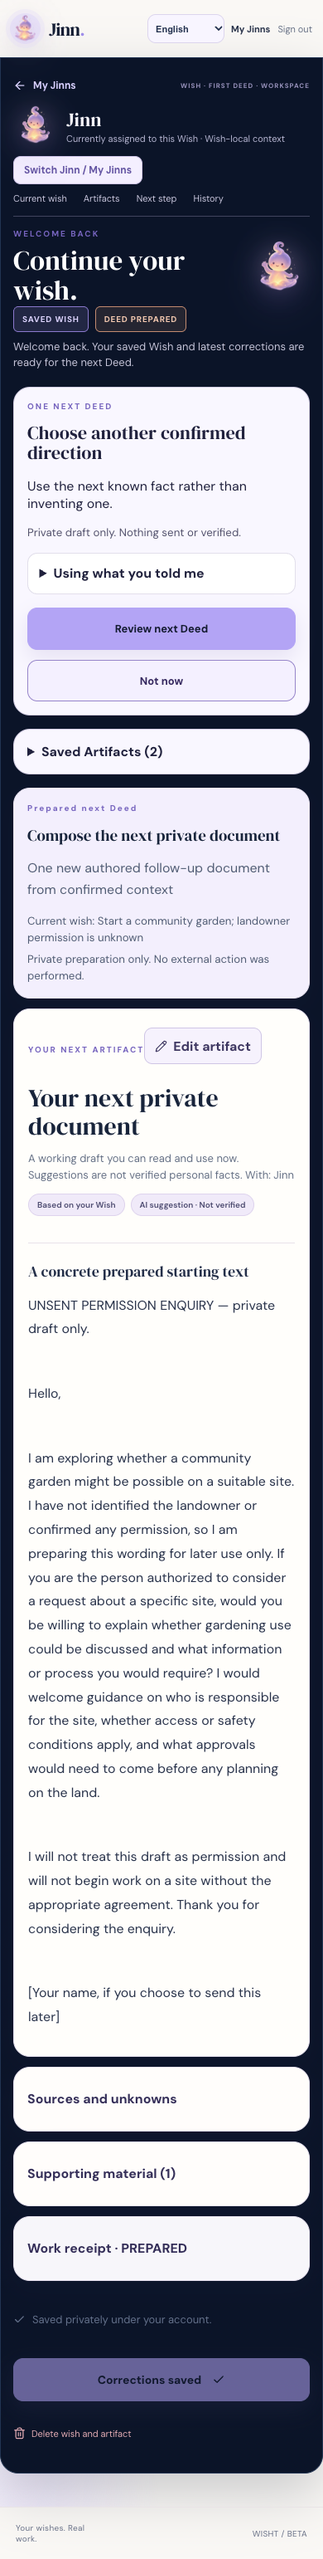
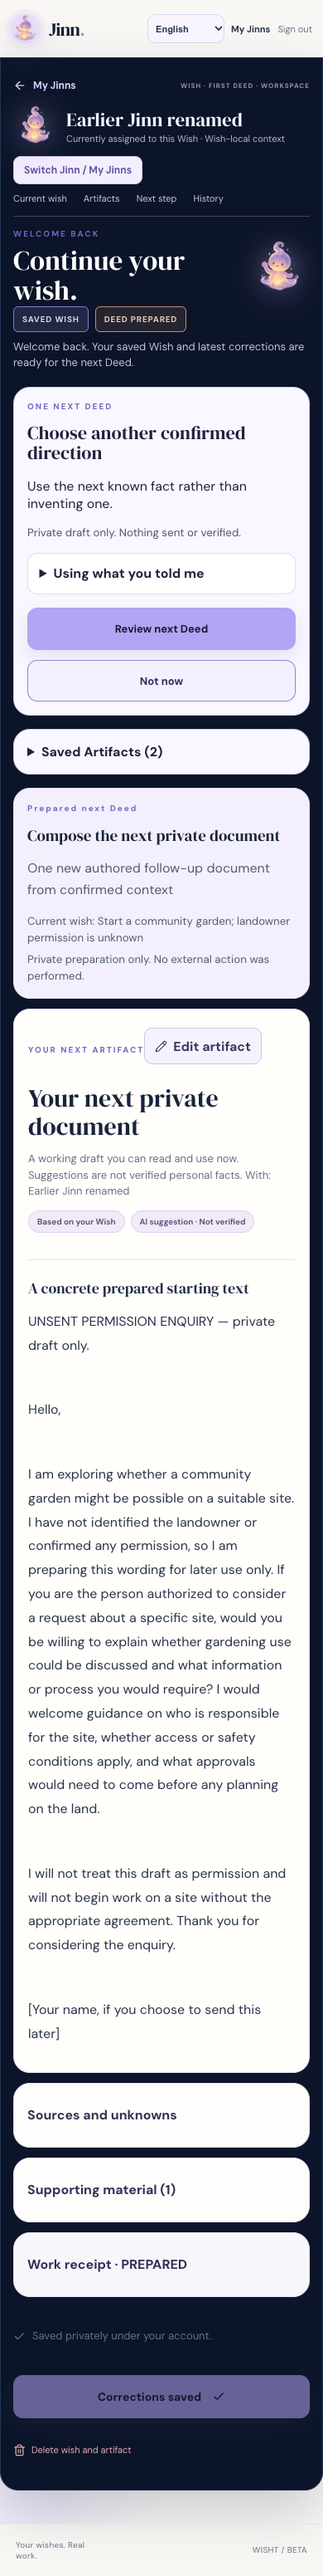
Fix F04 historical Jinn attribution and action-bound retries

diff --git a/api/src/continuation.ts b/api/src/continuation.ts
@@ -5,7 +5,8 @@ import { validateExperiencePlan } from './experiencePlan.js';
 import type { Locale } from './locale.js';
 
 const uuid=/^[0-9a-f]{8}-[0-9a-f]{4}-[1-8][0-9a-f]{3}-[89ab][0-9a-f]{3}-[0-9a-f]{12}$/i;
-type Snapshot={sourceId:string;sourceVersion:number;contextRevision:number;actorId:string;latestDeedId:string};
+type Snapshot={sourceId:string;sourceVersion:number;contextRevision:number;actorId:string;
+  actorName:string;actorVersion:string;latestDeedId:string};
 type TrustedContext={sourceNote:string;sourceNoteConfirmed:boolean;confirmedFacts:string[];unknowns:string[]};
 export class ContinuationError extends Error {
   constructor(message:string,readonly status:number,readonly code:string){super(message);}
@@ -21,6 +22,11 @@ const secret=(env:NodeJS.ProcessEnv)=>{
 function signature(value:unknown,env:NodeJS.ProcessEnv):string{
   return createHmac('sha256',secret(env)).update('wisht-continuation-v1\n')
     .update(JSON.stringify(value)).digest('base64url');
+}
+export function approvedActionFingerprint(userId:string,wishId:string,plan:unknown,
+  version:Snapshot,editRequest:string,env:NodeJS.ProcessEnv):string{
+  return createHmac('sha256',secret(env)).update('wisht-approved-action-v1\n')
+    .update(JSON.stringify({userId,wishId,plan,snapshot:version,editRequest})).digest('hex');
 }
 function verify(value:unknown,proof:unknown,env:NodeJS.ProcessEnv):void{
   if(typeof proof!=='string'||!/^[A-Za-z0-9_-]{43}$/.test(proof))
@@ -54,7 +60,7 @@ async function snapshot(token:string,wishId:string,sourceId:string|undefined,env
     .select('id,original_intent,primary_jinn_id,wish_context')
     .eq('id',wishId).eq('user_id',user.id).maybeSingle();
   if(wishError||!wish)fail('Saved Wish unavailable.',404,'wish_not_found');
-  const {data:jinn}=await admin.from('jinns').select('id,name,settings')
+  const {data:jinn}=await admin.from('jinns').select('id,name,settings,updated_at')
     .eq('id',wish!.primary_jinn_id).eq('user_id',user.id).maybeSingle();
   if(!jinn)fail('Assigned Jinn unavailable.',409,'jinn_changed');
   let sourceQuery=admin.from('artifacts').select('id,content,version,origin_deed_id')
@@ -74,7 +80,8 @@ async function snapshot(token:string,wishId:string,sourceId:string|undefined,env
   };
   const revision=Number.isInteger(raw.revision)?Number(raw.revision):0;
   const version:Snapshot={sourceId:source!.id,sourceVersion:source!.version,
-    contextRevision:revision,actorId:jinn!.id,latestDeedId:latest!.id};
+    contextRevision:revision,actorId:jinn!.id,actorName:jinn!.name,
+    actorVersion:jinn!.updated_at,latestDeedId:latest!.id};
   const content=validateArtifact(source!.content,typeof source!.content?.sourceNote==='string'?source!.content.sourceNote:'');
   const priorDraft={title:content.title,excerpt:content.sections.filter(s=>s.type==='document')
     .map(s=>s.body).join('\n').slice(0,1000),nextDeedTitle:content.nextDeed.title};
@@ -82,13 +89,21 @@ async function snapshot(token:string,wishId:string,sourceId:string|undefined,env
 }
 function sameVersion(a:Snapshot,b:Snapshot){
   return a.sourceId===b.sourceId&&a.sourceVersion===b.sourceVersion&&
-    a.contextRevision===b.contextRevision&&a.actorId===b.actorId&&a.latestDeedId===b.latestDeedId;
+    a.contextRevision===b.contextRevision&&a.actorId===b.actorId&&
+    a.actorName===b.actorName&&a.actorVersion===b.actorVersion&&a.latestDeedId===b.latestDeedId;
 }
-async function resolve(admin:ReturnType<typeof clients>['admin'],userId:string,key:string){
-  const {data:deed,error}=await admin.from('deeds').select('id,wish_id,receipt')
+export function assertReplayBinding(existing:{wish_id:string;request_fingerprint:string|null},
+  wishId:string,fingerprint:string):void{
+  if(existing.wish_id!==wishId||existing.request_fingerprint!==fingerprint)
+    fail('Request key belongs to another approved action.',409,'request_conflict');
+}
+async function resolve(admin:ReturnType<typeof clients>['admin'],userId:string,key:string,
+  wishId:string,fingerprint:string){
+  const {data:deed,error}=await admin.from('deeds').select('id,wish_id,receipt,request_fingerprint')
     .eq('user_id',userId).eq('request_key',key).eq('verified_followup',true).maybeSingle();
   if(error)fail('Could not check the previous save.',503,'resolve_failed');
   if(!deed)return null;
+  assertReplayBinding(deed,wishId,fingerprint);
   const {data:artifact, error:artifactError}=await admin.from('artifacts').select('id')
     .eq('origin_deed_id',deed.id).eq('wish_id',deed.wish_id).eq('user_id',userId).single();
   if(artifactError||!artifact)fail('Saved Artifact unavailable.',503,'resolve_failed');
@@ -100,30 +115,20 @@ export async function serveContinuation(body:Record<string,unknown>,token:string
   const mode=body.mode;
   const fields=mode==='propose_continuation'?['mode','locale','wishId','sourceId','editRequest']:
     mode==='execute_continuation'?['mode','locale','wishId','sourceId','requestKey','proposal','editRequest']:
-    mode==='resolve_continuation'?['mode','locale','wishId','requestKey']:[];
+    mode==='resolve_continuation'?['mode','locale','wishId','requestKey','proposal','editRequest']:[];
   if(!fields.length||Object.keys(body).some(key=>!fields.includes(key)))
     fail('Unsupported continuation field.',400,'invalid_request');
-  if(mode==='resolve_continuation'){
-    if(typeof body.requestKey!=='string'||!uuid.test(body.requestKey)||
-      typeof body.wishId!=='string'||!uuid.test(body.wishId))
-      fail('Invalid request key.',400,'invalid_request');
-    const {user,admin}=await identity(token,env);
-    const existing=await resolve(admin,user.id,body.requestKey as string);
-    if(!existing)fail('No completed Deed for this request.',404,'not_saved');
-    if(existing!.wishId!==body.wishId)fail('Request key belongs to another Wish.',409,'request_conflict');
-    return existing;
-  }
   if(typeof body.wishId!=='string'||!uuid.test(body.wishId)||
      (body.sourceId!==undefined&&(typeof body.sourceId!=='string'||!uuid.test(body.sourceId))))
     fail('Invalid Wish or Artifact.',400,'invalid_request');
   if(body.editRequest!==undefined&&(typeof body.editRequest!=='string'||body.editRequest.length>280))
     fail('Edit request is too long.',400,'invalid_request');
-  if(mode==='execute_continuation' && (typeof body.requestKey!=='string'||!uuid.test(body.requestKey)))
+  if(mode!=='propose_continuation' && (typeof body.requestKey!=='string'||!uuid.test(body.requestKey)))
     fail('Invalid request key.',400,'invalid_request');
-  const state=await snapshot(token,body.wishId as string,body.sourceId as string|undefined,env);
-  if(state.context.sourceNote&&!state.context.sourceNoteConfirmed)
-    fail('Confirm the source note before continuing.',409,'source_confirmation_required');
   if(mode==='propose_continuation'){
+    const state=await snapshot(token,body.wishId as string,body.sourceId as string|undefined,env);
+    if(state.context.sourceNote&&!state.context.sourceNoteConfirmed)
+      fail('Confirm the source note before continuing.',409,'source_confirmation_required');
     const editRequest=typeof body.editRequest==='string'?body.editRequest.trim():'';
     const evidence={confirmedUserContext:state.context,priorAiDraft:state.priorDraft,
       requestedEmphasis:editRequest,capabilities:['private_draft','local_edit','account_save']};
@@ -134,24 +139,36 @@ export async function serveContinuation(body:Record<string,unknown>,token:string
       expires:Date.now()+30*60*1000};
     return {plan,snapshot:state.version,editRequest,expires:value.expires,proof:signature(value,env)};
   }
-  if(mode!=='execute_continuation')fail('Invalid request.',400,'invalid_request');
+  if(mode!=='execute_continuation'&&mode!=='resolve_continuation')fail('Invalid request.',400,'invalid_request');
   const key=body.requestKey as string;
-  const existing=await resolve(state.admin,state.user.id,key);
-  if(existing){
-    if(existing.wishId!==state.wish.id)fail('Request key belongs to another Wish.',409,'request_conflict');
-    return existing;
-  }
   const raw=body.proposal as Record<string,unknown>|undefined;
   if(!raw||typeof raw!=='object'||!raw.snapshot||typeof raw.editRequest!=='string'||
      raw.editRequest!==((typeof body.editRequest==='string'?body.editRequest.trim():''))||
-     typeof raw.expires!=='number'||
-     raw.expires<Date.now()||raw.expires>Date.now()+30*60*1000+60000)
+     typeof raw.expires!=='number'||!Number.isFinite(raw.expires)||
+     raw.expires>Date.now()+30*60*1000+60000)
     fail('Review this Deed again.',409,'proposal_stale');
   const plan=validateExperiencePlan(raw!.plan,locale);
   const version=raw!.snapshot as Snapshot;
+  const expires=raw!.expires as number;
+  if(!version||typeof version!=='object'||!uuid.test(version.sourceId)||
+    !uuid.test(version.actorId)||!uuid.test(version.latestDeedId)||
+    typeof version.actorName!=='string'||!version.actorName||
+    typeof version.actorVersion!=='string'||Number.isNaN(Date.parse(version.actorVersion))||
+    !Number.isInteger(version.sourceVersion)||!Number.isInteger(version.contextRevision)||
+    (body.sourceId!==undefined&&body.sourceId!==version.sourceId))
+    fail('Review this Deed again.',409,'proposal_stale');
+  const {user,admin}=await identity(token,env);
+  verify({userId:user.id,wishId:body.wishId,plan,snapshot:version,
+    editRequest:raw!.editRequest,expires},raw!.proof,env);
+  const fingerprint=approvedActionFingerprint(user.id,body.wishId as string,plan,version,raw!.editRequest as string,env);
+  const existing=await resolve(admin,user.id,key,body.wishId as string,fingerprint);
+  if(existing)return existing;
+  if(mode==='resolve_continuation')fail('No completed Deed for this request.',404,'not_saved');
+  if(expires<Date.now())fail('Review this Deed again.',409,'proposal_stale');
+  const state=await snapshot(token,body.wishId as string,version.sourceId,env);
+  if(state.context.sourceNote&&!state.context.sourceNoteConfirmed)
+    fail('Confirm the source note before continuing.',409,'source_confirmation_required');
   if(!sameVersion(version,state.version))fail('Wish context or Jinn changed. Review again.',409,'proposal_stale');
-  verify({userId:state.user.id,wishId:state.wish.id,plan,snapshot:version,
-    editRequest:raw!.editRequest,expires:raw!.expires},raw!.proof,env);
   const started=Date.now();
   const prepared=await prepareDeed(state.wish.original_intent,state.context.sourceNote,null,
     undefined,undefined,locale,plan,{},
@@ -164,15 +181,17 @@ export async function serveContinuation(body:Record<string,unknown>,token:string
     p_user_id:state.user.id,p_wish_id:state.wish.id,
     p_source_artifact_id:version.sourceId,p_source_version:version.sourceVersion,
     p_context_revision:version.contextRevision,p_expected_actor_id:version.actorId,
+    p_expected_actor_name:version.actorName,p_expected_actor_version:version.actorVersion,
     p_latest_deed_id:version.latestDeedId,
-    p_request_key:key,p_artifact:artifact,p_draft_source:prepared.receipt.draftSource,
+    p_request_key:key,p_request_fingerprint:fingerprint,
+    p_artifact:artifact,p_draft_source:prepared.receipt.draftSource,
   });
   if(error){
     if(error.code==='40001')fail('Wish context or Artifact changed. Review again.',409,'proposal_stale');
     if(error.code==='23505'){
-      const replay=await resolve(state.admin,state.user.id,key);
-      if(replay?.wishId===state.wish.id)return replay;
-      fail('Request key belongs to another Wish.',409,'request_conflict');
+      const replay=await resolve(state.admin,state.user.id,key,state.wish.id,fingerprint);
+      if(replay)return replay;
+      fail('Request key belongs to another approved action.',409,'request_conflict');
     }
     console.error('[Wisht] api continuation.save.failed',{code:error.code||'db_error'});
     fail('Could not confirm whether the Deed was saved. Retry with the same request.',503,'save_ambiguous');

diff --git a/api/test/continuation.test.ts b/api/test/continuation.test.ts
@@ -2,6 +2,7 @@ import {describe,it} from 'node:test';
 import assert from 'node:assert/strict';
 import {planFirstValue,prepareDeed,serveFirstDeed} from '../src/firstDeed.ts';
 import {validateExperiencePlan} from '../src/experiencePlan.ts';
+import {approvedActionFingerprint,assertReplayBinding,ContinuationError} from '../src/continuation.ts';
 
 const plan=validateExperiencePlan({version:1,locale:'en',intent:'Continue one saved Wish',
   firstOutcome:'A fully written new private chapter opening',
@@ -14,6 +15,27 @@ const chapter={title:'Chapter opening',sections:[{type:'document',title:'Opening
     prompt:'Choose a detail you know'},boundary:'Private draft. Nothing sent or verified.'};
 
 describe('F04 trusted continuation boundaries',()=>{
+  it('binds a request key to approved action and source, context and Jinn versions',()=>{
+    const env={SUPABASE_SERVICE_ROLE_KEY:'x'.repeat(40)};
+    const version={sourceId:'00000000-0000-4000-8000-000000000001',sourceVersion:1,
+      contextRevision:2,actorId:'00000000-0000-4000-8000-000000000002',
+      actorName:'Original Jinn',actorVersion:'2026-11-20T12:00:00Z',
+      latestDeedId:'00000000-0000-4000-8000-000000000003'};
+    const fingerprint=approvedActionFingerprint('owner','wish',plan,version,'',env);
+    assert.match(fingerprint,/^[0-9a-f]{64}$/);
+    assert.equal(fingerprint,approvedActionFingerprint('owner','wish',plan,version,'',env));
+    assert.notEqual(fingerprint,approvedActionFingerprint('owner','wish',plan,version,'different edit',env));
+    for(const change of [{sourceVersion:2},{contextRevision:3},
+      {actorId:'00000000-0000-4000-8000-000000000004'},
+      {actorName:'Renamed Jinn'},{actorVersion:'2026-11-20T12:01:00Z'},
+      {latestDeedId:'00000000-0000-4000-8000-000000000005'}])
+      assert.notEqual(fingerprint,approvedActionFingerprint('owner','wish',plan,{...version,...change},'',env));
+    assert.doesNotThrow(()=>assertReplayBinding({wish_id:'wish',request_fingerprint:fingerprint},'wish',fingerprint));
+    assert.throws(()=>assertReplayBinding({wish_id:'wish',request_fingerprint:fingerprint},'wish','f'.repeat(64)),
+      (error:unknown)=>error instanceof ContinuationError&&error.status===409&&error.code==='request_conflict');
+    assert.throws(()=>assertReplayBinding({wish_id:'wish',request_fingerprint:null},'wish',fingerprint),
+      (error:unknown)=>error instanceof ContinuationError&&error.status===409);
+  });
   it('plans from confirmed context and labels earlier AI work as a draft',async()=>{
     const calls:Array<{system:string;user:string}>=[];
     const evidence={confirmedUserContext:{sourceNote:'Sunday pancakes with Aunt',

diff --git a/web/src/firstWishStore.ts b/web/src/firstWishStore.ts
@@ -5,7 +5,7 @@ import { ensurePrimaryJinn } from './jinnStore';
 
 export type WishSummary = { id: string; aspiration: string; updated_at: string; state: string; jinn_id: string };
 export type SavedArtifact={id:string;artifact:Artifact;receipt:DeedReceipt;revision:number;
-  deedId:string;actorName:string;verified:boolean};
+  deedId:string;actorName:string|null;verified:boolean};
 export type WishContext={sourceNote:string;sourceNoteConfirmed:boolean;confirmedFacts:string[];unknowns:string[];revision:number};
 export type FirstWishRow = {
   id: string;
@@ -62,12 +62,11 @@ export function loadFirstWish(id: string): Promise<FirstWishRow> {
     const artifact = artifacts.data.at(-1);
     const current = deeds.data.find(deed => deed.id === artifact?.origin_deed_id) ?? deeds.data.at(-1);
     if (!artifact || !current) throw new Error('This saved wish has no prepared Deed.');
-    const fallbackActor=assigned.data.name;
     const savedArtifacts:SavedArtifact[]=artifacts.data.map(item=>{
       const deed=deeds.data.find(value=>value.id===item.origin_deed_id);
       if(!deed)throw new Error('An Artifact has no matching Deed receipt.');
       return {id:item.id,artifact:item.content as Artifact,receipt:deed.receipt as DeedReceipt,
-        revision:item.version,deedId:deed.id,actorName:deed.actor_jinn_name||fallbackActor,
+        revision:item.version,deedId:deed.id,actorName:deed.actor_jinn_name||null,
         verified:deed.verified_followup===true||deed.verified_first===true};
     });
     const raw=wish.data.wish_context as Record<string,unknown>||{};

diff --git a/web/src/FirstWish.tsx b/web/src/FirstWish.tsx
@@ -253,7 +253,8 @@ export default function FirstWish({wish,savedId,preferredJinnId,preferredJinnOwn
       try{result=await endpoint({mode:'execute_continuation',wishId:row.id,
         sourceId:proposal.snapshot.sourceId,requestKey,proposal,editRequest},locale,bearer);}
       catch(error){
-        try{result=await endpoint({mode:'resolve_continuation',wishId:row.id,requestKey},locale,bearer);}
+        try{result=await endpoint({mode:'resolve_continuation',wishId:row.id,requestKey,
+          proposal,editRequest},locale,bearer);}
         catch{throw error;}
       }
       const saved=await loadFirstWish(row.id);
@@ -388,7 +389,7 @@ export default function FirstWish({wish,savedId,preferredJinnId,preferredJinnOwn
         <div className="continuation-artifact-list">{row.artifacts.map((item,index)=><button type="button" key={item.id}
           aria-current={item.id===row.artifact_id?'true':undefined} disabled={busy||dirty||contextDirty}
           onClick={()=>{selectSaved(row,item.id);setProposal(null);setReviewing(false);pendingRequestKey.current=null;}}>
-          {index+1}. {item.artifact.title} · {item.actorName}</button>)}</div>
+          {index+1}. {item.artifact.title} · {item.actorName??t('Unknown Jinn')}</button>)}</div>
       </details>}
       {artifact.experience?<FirstValueExperience key={row?.artifact_id||'unsaved'} artifact={artifact} receipt={receipt} saved={!!row}
         wish={currentWish} companionName={companionName} isFirst={!row||row.artifacts[0]?.id===row.artifact_id}

diff --git a/web/src/i18n.tsx b/web/src/i18n.tsx
@@ -11,6 +11,7 @@ const translations: Record<string,readonly [string,string,string]> = {
   'Using what you told me':['Использую то, что вы рассказали','D’après ce que vous m’avez dit','Según lo que me contaste'],
   'No confirmed details yet.':['Пока нет подтверждённых деталей.','Aucun détail confirmé pour le moment.','Todavía no hay detalles confirmados.'],
   'Unknowns':['Неизвестно','Inconnues','Datos pendientes'],
+  'Unknown Jinn':['Неизвестный джинн','Jinn inconnu','Jinn desconocido'],
   'None listed':['Ничего не указано','Aucune','Ninguno'],
   'Correct the source note in the Artifact editor. Draft text alone is not a confirmed fact.':['Исправьте исходную заметку в редакторе документа. Текст черновика сам по себе не подтверждённый факт.','Corrigez la note source dans l’éditeur du document. Le brouillon seul ne confirme aucun fait.','Corrige la nota original en el editor del documento. El borrador por sí solo no confirma ningún hecho.'],
   'Confirmed details, one per line':['Подтверждённые детали, по одной в строке','Détails confirmés, un par ligne','Detalles confirmados, uno por línea'],

diff --git a/web/src/FirstValueExperience.tsx b/web/src/FirstValueExperience.tsx
@@ -13,7 +13,7 @@ type Props={
   wish:string;
   companionName:string;
   isFirst?:boolean;
-  actorName?:string;
+  actorName?:string|null;
   verified?:boolean;
   showNext?:boolean;
   onChange:(artifact:Artifact)=>void;
@@ -55,7 +55,7 @@ export default function FirstValueExperience({artifact,receipt,saved,wish,compan
       <button type="button" className="first-value-edit" aria-pressed={editing}
         onClick={()=>setEditing(value=>!value)}><Pencil size={15}/> {editing?t('Finish editing'):t('Edit artifact')}</button>
       <h2>{artifact.title}</h2>
-      <p className="first-value-artifact-hint">{t('A working draft you can read and use now. Suggestions are not verified personal facts.')} {t('With')}: {actorName||companionName}</p>
+      <p className="first-value-artifact-hint">{t('A working draft you can read and use now. Suggestions are not verified personal facts.')} {t('With')}: {actorName===null?t('Unknown Jinn'):actorName??companionName}</p>
     <div className="first-value-provenance" aria-label={t('Sources and unknowns')}>
       <span>{t('Based on your Wish')}</span><span>{t('AI suggestion · Not verified')}</span>
     </div>

diff --git a/docs/evidence/f04-001/README.md b/docs/evidence/f04-001/README.md
@@ -4,19 +4,19 @@
 
 Branch `codex/f04-001-trusted-continuation` starts from `origin/main` at `57cac9f`. This slice adds a reviewed next Deed for a signed-in owner of a saved Wish. The browser can propose, edit the request, explicitly start, resolve an ambiguous save, and reopen each independent Artifact. It cannot set the actor, receipt, verification marker, recorded time, or saved status.
 
-The authenticated API reads only that owner's Wish, assigned Jinn, latest Deed, latest source Artifact, and Wish-local context. An HMAC binds the reviewed plan to those IDs and revisions and the edit request. The service-role RPC locks and rechecks them before one transaction inserts the Deed and Artifact. The request key makes a retry return the same pair. Source corrections and confirmed context updates advance revisions; a stale plan returns a conflict. Historical F03 receipts remain visibly unverified rather than receiving an inferred F04 marker.
+The authenticated API reads only that owner's Wish, assigned Jinn, latest Deed, latest source Artifact, and Wish-local context. An HMAC binds the reviewed plan to those IDs and revisions and the edit request. The service-role RPC locks and rechecks them before one transaction inserts the Deed and Artifact. A second server-derived fingerprint binds the request key to that approved action and source/context/Jinn snapshot. Identical retries return the same IDs; different signed actions with the same key return 409. New First Deeds snapshot the actual Jinn ID and name in the database insert trigger. Older Deeds without actor data display Unknown Jinn; they are not backfilled or attributed from the current assignment. Historical F03 receipts remain visibly unverified rather than receiving an inferred F04 marker.
 
 ## Verification
 
 | Gate | Result |
 | --- | --- |
-| Typecheck, 70 API tests, production build | Pass |
-| Disposable Docker Postgres: migration, owner RLS, forged marker denial, correction revisions, atomic save, replay, stale context/Jinn, two-account isolation, concurrent same key | Pass |
+| Typecheck, 71 API tests, production build | Pass |
+| Disposable Docker Postgres: migration, owner RLS, forged marker denial, first-actor snapshot and legacy unknown, correction revisions, atomic save, identical replay, conflicting fingerprint, stale context/Jinn, two-account isolation, concurrent same key | Pass |
 | Fresh isolated Supabase reset through all five migrations, security advisor warnings | Pass; no advisor findings |
 | Deterministic local Auth/API/browser on ports 55321, 55322, 55324, 3301, 5573 | Pass; [machine evidence](deterministic-browser-evidence.json) |
 | Approved real DeepSeek `deepseek-flash` run on the **synthetic** Sunday pancakes with Aunt case; isolated local Supabase only | Pass after grounding revision; [machine evidence](actual-provider-evaluation.json) |
 
-The deterministic browser covers Grandma-to-Aunt source correction, a 150–250-word chapter, two independently reopenable/editable Artifacts, same-key replay, forged fields, stale proposal, reauthentication, four locales, desktop/mobile, an unsent garden permission enquiry, and an unrelated hand-lettering Wish. Its model output is a loopback fixture, so it is wiring evidence rather than prose-quality evidence. Screenshots: [desktop history](desktop-history.png), [mobile next step](mobile-history.png), [mobile Artifact](mobile-artifact.png), [garden draft](garden-unsent-draft.png).
+The deterministic browser covers Grandma-to-Aunt source correction, a 150–250-word chapter, two independently reopenable/editable Artifacts, First and second Deed attribution after Jinn reassignment and rename, refresh and reauthentication, identical replay and lost-response recovery, a different signed action with the same key returning 409, simultaneous identical API requests producing one pair, forged fields, stale proposal, four locales, desktop/mobile, an unsent garden permission enquiry, and an unrelated hand-lettering Wish. Its model output is a loopback fixture, so it is wiring evidence rather than prose-quality evidence. Screenshots: [desktop history](desktop-history.png), [mobile next step](mobile-history.png), [mobile Artifact](mobile-artifact.png), [garden draft](garden-unsent-draft.png).
 
 The real-model run saved one verified second Deed and independent second Artifact (IDs and receipt in the machine evidence), then reopened the second Artifact after sign-in and refresh. The primary chapter is 250 words; the separate guidance note is 94 words. The chapter uses the supplied Aunt memory and leaves maker, location, repetition, conversation, and sensory details explicitly open. [Rendered second Artifact](actual-provider-second-artifact.png). The final run used 12 model calls: 16,350 prompt tokens (8,704 cache hits, 7,646 misses) and 2,160 completion tokens. The estimated model cost is **US$0.002469** using [DeepSeek's published Flash off-peak token rates](https://api-docs.deepseek.com/quick_start/pricing/) checked on 2026-11-20; actual billing may differ. Browser timings for initial plan, initial prepare, first continuation proposal, edited proposal, and execution are recorded in the JSON.
 
@@ -24,4 +24,4 @@ The first real attempt exposed a content failure: the model inferred that Aunt m
 
 ## Release boundary
 
-No hosted database was changed, no deployment was made, and this branch must not be self-merged. Before hosted rollout, reconcile the F03 migration history drift identified in issue #27 (local `20261116040000` / `20261116170000` versus hosted `20261116235703` / `20261116235708`), take a backup, review the migration and rollback path, and apply migrations through the normal controlled release. The local migration and tests do not authorize a hosted `db push`.
+No hosted database was changed, and this branch must not be self-merged. A Netlify preview of earlier commit `9221c15` was published before the Senior Developer review; it does not include these fixes or a migrated staging database. The review-fix commit restores the production-only Netlify build rule, so it is not a new preview deployment. Before hosted rollout, reconcile the F03 migration history drift identified in issue #27 (local `20261116040000` / `20261116170000` versus hosted `20261116235703` / `20261116235708`), review migration and rollback readiness, and apply migrations through the normal controlled release. The local migration and tests do not authorize a hosted `db push`.
